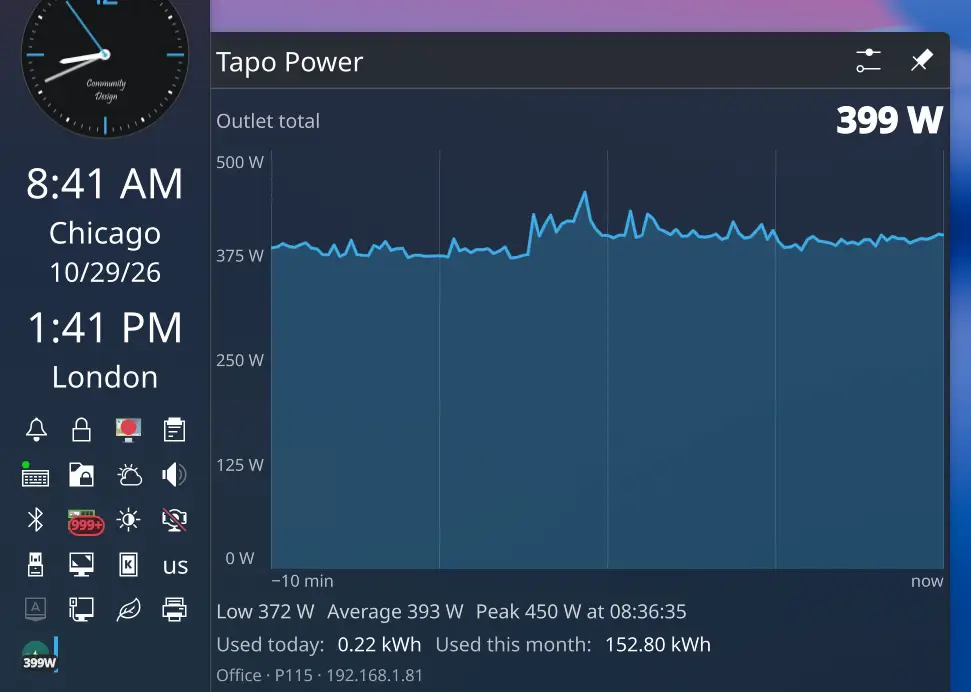
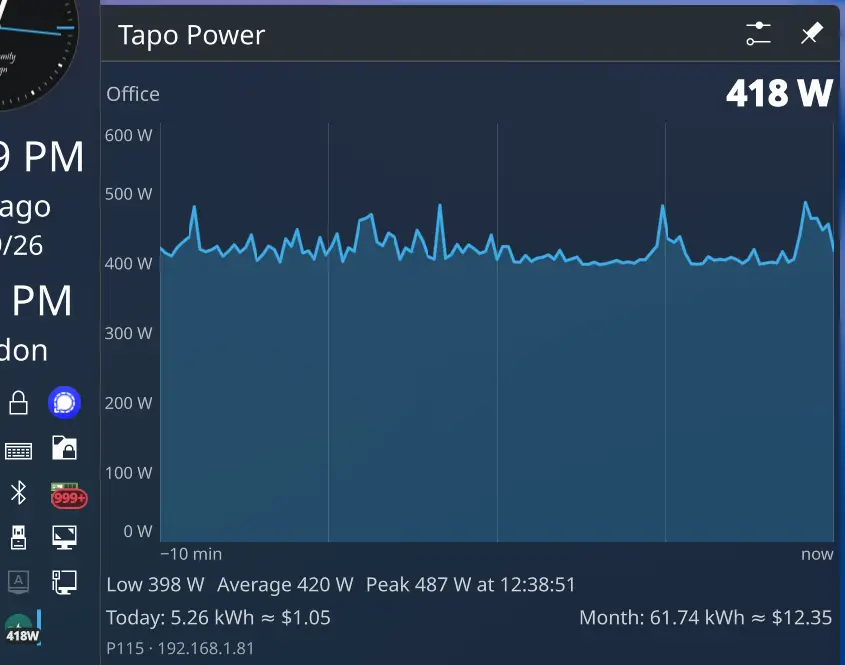
Update README screenshot with the single-plug view and cost estimates

Changed region(s): [[0.0, 0.0, 1.0, 1.0]]

diff --git a/README.md b/README.md
@@ -8,7 +8,7 @@ energy-monitoring plug (P110/P115), read directly over the local network.
 - Today and month energy totals from the plug, with estimated cost
 - No cloud round trip: the helper talks the plug's local KLAP protocol
 
-![Tapo Power showing a live power graph, with low, average and peak watts and today and month energy totals](screenshot.webp)
+![Tapo Power showing a live power graph, with low, average and peak watts and today and month energy totals with estimated cost](screenshot.webp)
 
 > Vibe coded with [Claude](https://claude.com/claude-code) (Claude Haiku 5.5).
 
